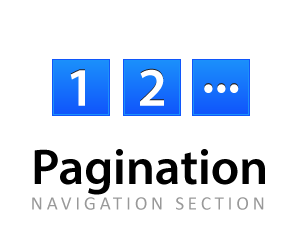
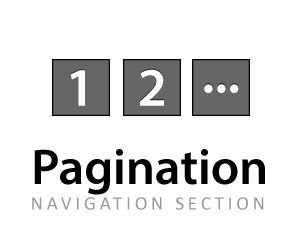
More section refinements.

Changed region(s): [[0.15, 0.2489, 0.84, 0.5289]]

diff --git a/less/pl-editor.less b/less/pl-editor.less
@@ -1049,8 +1049,8 @@
 					.pl-vignette:after{
 						
 						.border-radius( 10px );
-						box-shadow: inset 1px 1px 0 rgba(255,255,255,.5);
-						#gradient > .vertical(transparent, rgba(0,0,0,.25));
+						box-shadow: inset 1px 1px 0 rgba(255,255,255,.5), inset -1px -1px 0 rgba(255,255,255,.5);
+						#gradient > .vertical(transparent, rgba(0,0,0,.1));
 						
 					}
 				}

diff --git a/editor/js/pl.optpanel.js b/editor/js/pl.optpanel.js
@@ -376,6 +376,12 @@
 				
 			}
 			
+			else if( o.type == 'link' ){
+				
+				oHTML += sprintf('<a href="%s" class="btn %s" >%s</a>', o.url, o.classes, o.label )
+				
+			}
+			
 			
 			// Checkbox Options
 			else if ( o.type == 'check' ) {

diff --git a/sections/postauthor/section.php b/sections/postauthor/section.php
@@ -3,7 +3,7 @@
 	Section: PostAuthor
 	Author: PageLines
 	Author URI: http://www.pagelines.com
-	Description: Adds post author to page/single post.
+	Description: Adds author information to pages and posts.
 	Class Name: PageLinesPostAuthor	
 	Workswith: main-single, author
 	Failswith: archive, category, posts, tags, search, 404_page
@@ -18,6 +18,28 @@
  */
 class PageLinesPostAuthor extends PageLinesSection {
 
+	function section_opts(){
+		global $post; 
+		
+		if(!$post || !is_object($post))
+			return '';
+			
+		$author_id = $post->post_author;
+		
+		$opts = array(
+			array(
+				'key'	=> 'author_setup', 
+				'type'	=> 'link', 
+				'url'	=> admin_url( 'user-edit.php?user_id='.$author_id ),
+				'title'	=> 'Author Setup', 
+				'label'		=>	'<i class="icon-edit"></i> Edit Author Info',
+				'help'		=> "This section uses the author's profile information. Set that in your admin. ",
+			)
+		); 
+		
+		return $opts;
+	}
+
 	/**
 	* Section template.
 	*/
@@ -28,30 +50,37 @@ class PageLinesPostAuthor extends PageLinesSection {
 	ob_start(); 
 		the_author_meta('url');
 	$link = ob_get_clean();
+	
+		$default_avatar = PL_IMAGES . '/avatar_default.gif';
+		$author_email = get_the_author_meta('email', $post->post_author);
+		$author_name = get_the_author();
+		$author_desc = get_the_author_meta('description', $post->post_author);
+		$google_profile = get_the_author_meta( 'google_profile' );
 ?>
 		
 		<div class="media author-info">
 			<div class="img thumbnail author-thumb">
 				<a class="thumbnail" href="<?php echo $link; ?>" target="_blank">
-					<?php echo get_avatar( get_the_author_meta('email', $post->post_author), $size = '120', $default = PL_IMAGES . '/avatar_default.gif' ); ?>
+					<?php echo get_avatar( $author_email, '120', $default_avatar); ?>
 				</a>
 			</div>
 			<div class="bd">
 				<small class="author-note"><?php _e('Author', 'pagelines');?></small>
 				<h2>
-					<?php echo get_the_author(); ?>
+					<?php echo $author_name ?>
 				</h2>
-				<p><?php the_author_meta('description', $post->post_author); ?></p>
-				<div class="author-details">
-					<?php if($link != ''):
-						printf( '<a href="%s" target="_blank">%s</a>', $link, __( 'Visit Authors Website &rarr;', 'pagelines') );
-					endif;
+				<p><?php echo $author_desc; ?></p>
+				<p class="author-details">
+					<?php 
 					
-					$google_profile = get_the_author_meta( 'google_profile' );
-					if ( $google_profile ) {
-						printf( '<br /><a href="%s" rel="me">%s</a>',  $google_profile, __( 'Authors Google Profile &rarr;', 'pagelines' ) );
-					} ?>
-				</div>
+					if( $link != '' )
+						printf( '<a href="%s" class="btn" target="_blank"><i class="icon-external-link"></i> %s</a> ', $link, __( 'Visit Authors Website &rarr;', 'pagelines') );
+
+					if ( $google_profile ) 
+						printf( '<a href="%s" class="btn" rel="me"><i class="icon-google-plus"></i> %s</a>',  $google_profile, __( 'Authors Google Profile &rarr;', 'pagelines' ) );
+					
+					?>
+				</p>
 			</div>
 		
 		</div>
